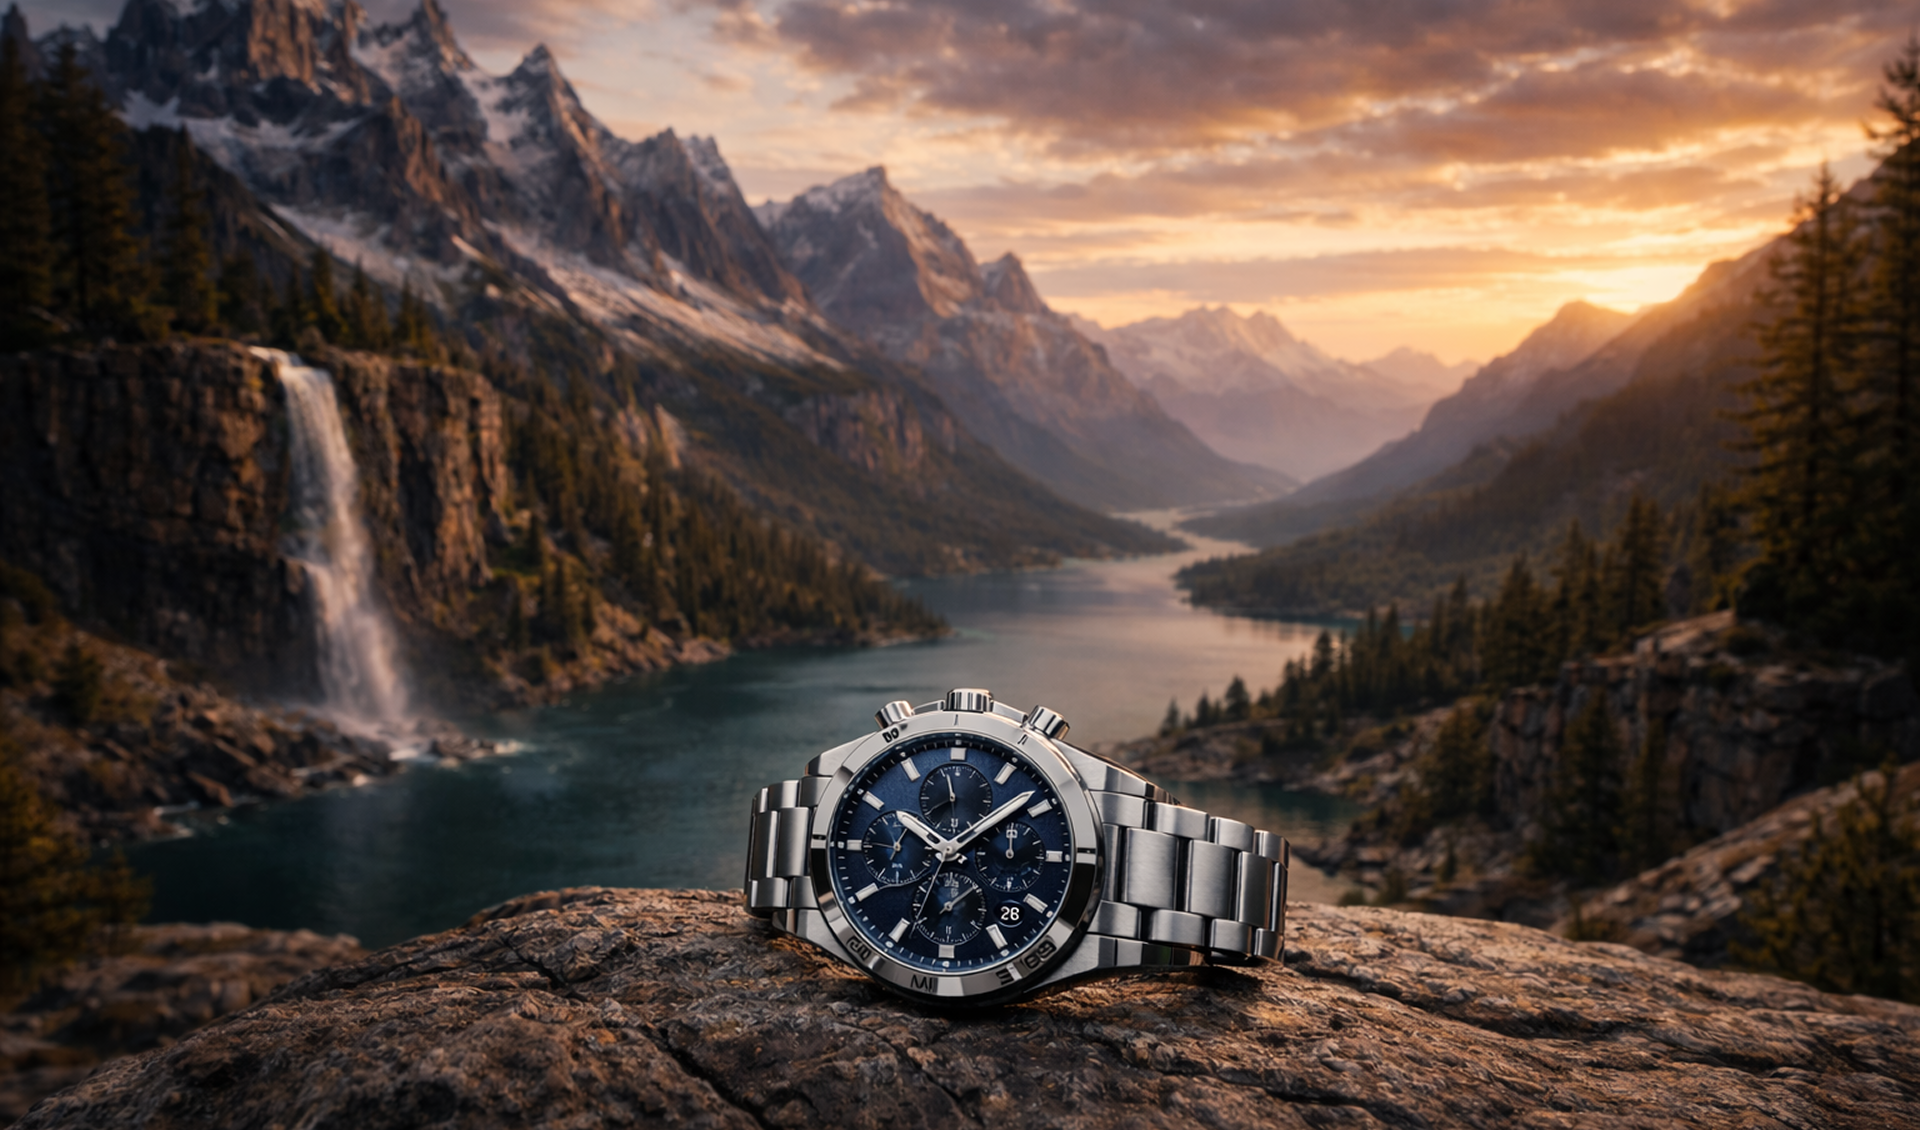
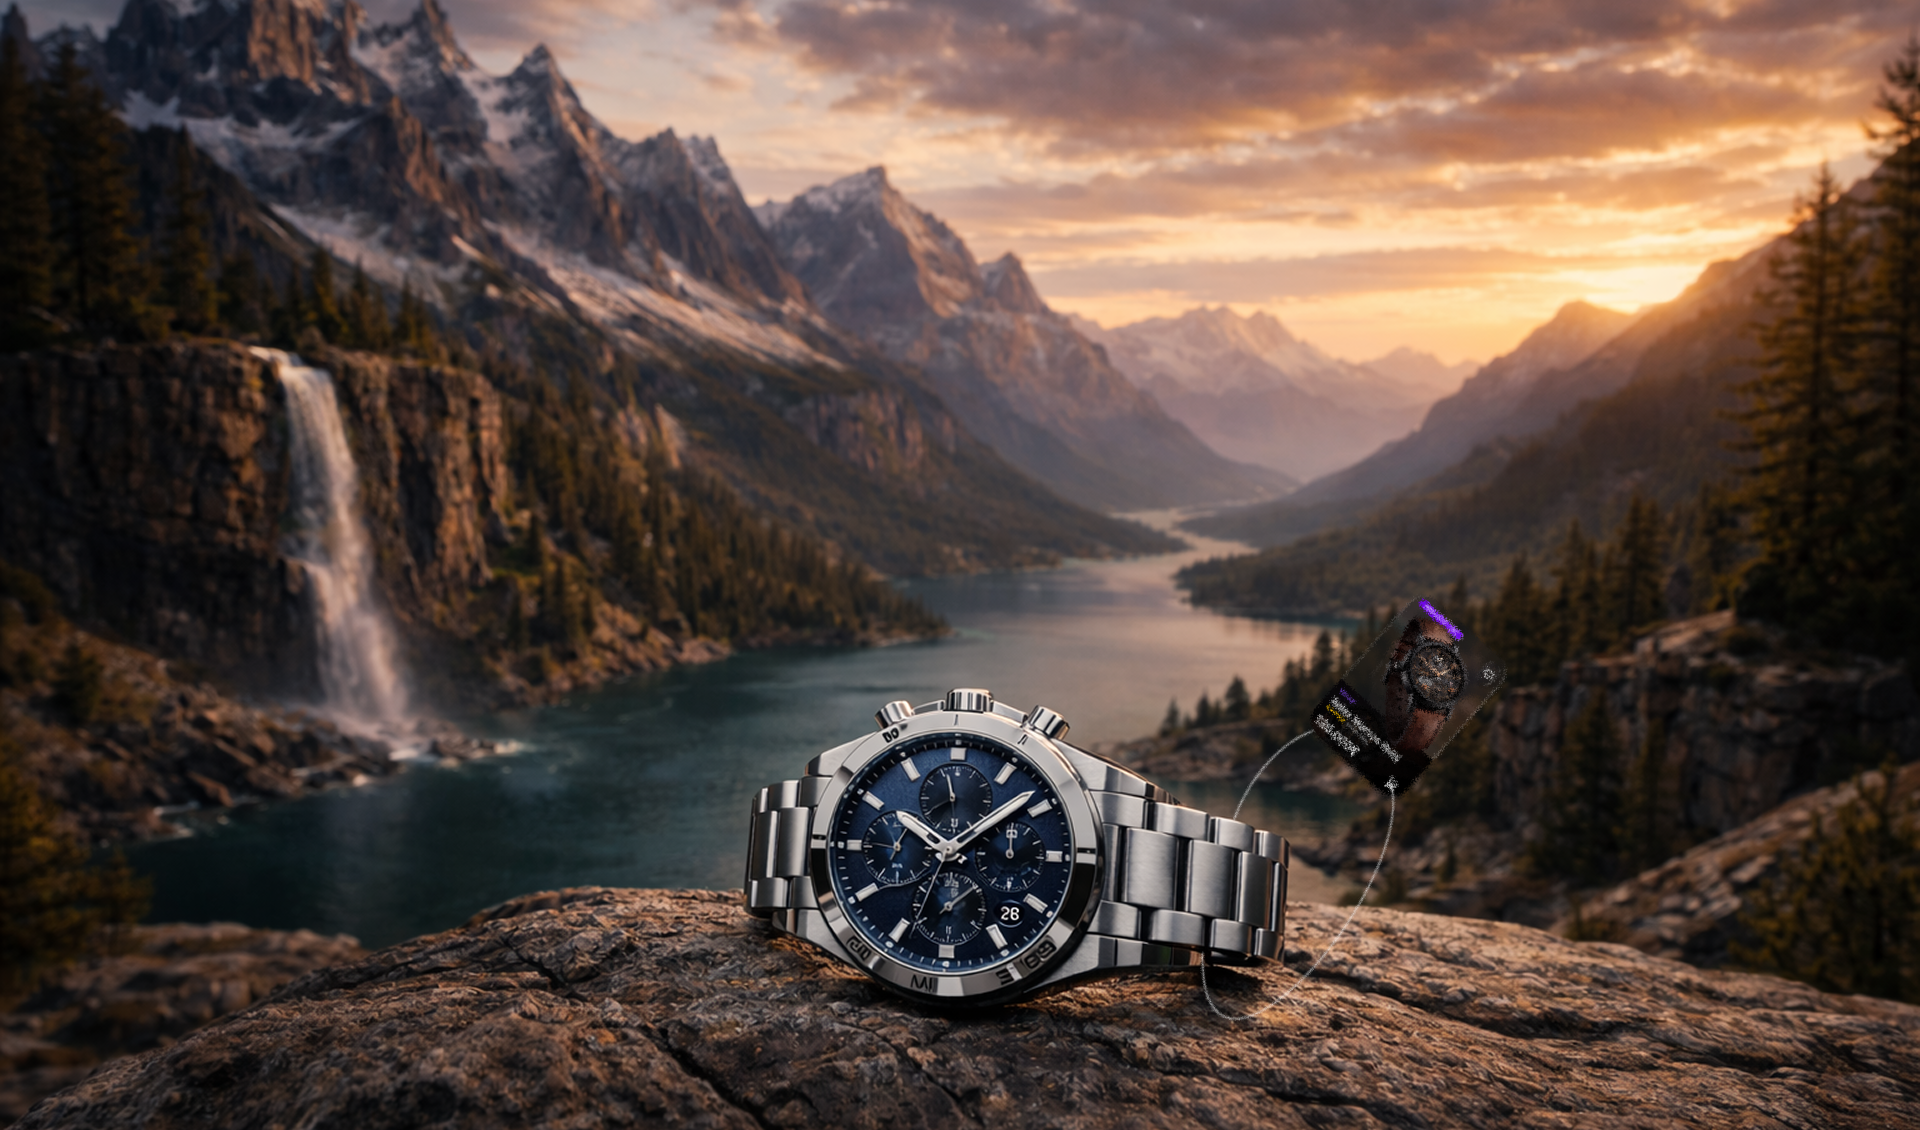
Modificaciones pagina principal

Changed region(s): [[0.6875, 0.5265, 0.7812, 0.7124]]

diff --git a/Proyecto Pagina Web/css/index_style.css b/Proyecto Pagina Web/css/index_style.css
@@ -15,11 +15,15 @@ header {
     z-index: 2;
     display: grid;
     grid-template-columns: 20% 60% 20%;
+    position: fixed;
 }
 
 #seccionPrincipal { 
     width: 100%;
     height: 100vh;
+    position: sticky; /* Hace que la seccion se pegue a la pantalla mientras se hace scroll hasta que acaba el div que la contiene (contenedorSticky). */
+    top: 0;
+    z-index: 1;
 }
 
 #seccionPrincipal .imagenFondo { 
@@ -29,7 +33,14 @@ header {
     height: 100%;
     object-fit: cover; /* Esto ahce que la imagen cubra todo el contenedor, como background-size: cover */
     object-position: center; /* Hace que la imagen se centre en el contenedor */
-} 
+}
+
+#contenedorSticky {
+    height: 160vh;
+    position: relative;
+    z-index: -1;
+    background-color: black;
+}
 
 .carta {
     position: absolute;
@@ -112,4 +123,60 @@ header {
     font-family: 'Clash Display', sans-serif;
     font-weight: 500;
     font-size: 24px;
+}
+
+#bentoGrid {
+    width: 100%;
+    height: 100vh;
+    background: linear-gradient(180deg,rgba(255, 255, 255, 0) 0%, rgba(0, 0, 0, 0.5) 5%, rgba(0, 0, 0, 0.5) 95%, rgba(255, 255, 255, 0) 100%);
+    padding-left: 60px;
+    padding-right: 60px;
+    padding-top: 70px;
+    margin-top: -60vh;
+    z-index: 10;
+}
+
+.contenedorBento {
+    background-color: transparent;
+    width: 100%;
+    height: 100vh;
+    display: grid;
+    grid-template-columns: 1fr 1fr 1fr 1fr;
+    grid-template-rows: 1fr 1fr;
+    grid-template-areas: 
+    "cartaBento1 cartaBento2 cartaBento2 cartaBento3"
+    "cartaBento1 cartaBento5 cartaBento6 cartaBento6";
+    grid-gap: 10px;
+    z-index: 10;
+}
+
+.cartaBento {
+    border-radius: 30px;
+    background-color: wheat;
+    height: 100%;
+    width: 100%;
+}
+
+.cartaBento1 {
+    grid-area: cartaBento1;
+}
+
+.cartaBento2 {
+    grid-area: cartaBento2;
+}
+
+.cartaBento3 {
+    grid-area: cartaBento3;
+}
+
+.cartaBento4 {
+    grid-area: cartaBento4;
+}
+
+.cartaBento5 {
+    grid-area: cartaBento5;
+}
+
+.cartaBento6 {
+    grid-area: cartaBento6;
 }

diff --git a/Proyecto Pagina Web/js/index_script.js b/Proyecto Pagina Web/js/index_script.js
@@ -47,3 +47,29 @@ if (imagen.complete && imagen.naturalWidth) {
 
 // Podicionar la carta al cambiar el tamaño de la ventana.
 window.addEventListener("resize", modificarPosicion);
+
+
+/* Desvanecimiento Scroll */
+const contenedorSticky = document.getElementById("contenedorSticky");
+
+function desvanecerAlScrollear() {
+
+  const posicion = contenedorSticky.getBoundingClientRect(); // Obetenemos la posicion del contenedorSticky respecto a la ventana.
+
+  let scrollHecho = -posicion.top; // Guarda la posicion del contenedor respecto a la parte de arriba de la ventana, dado que la posicion sera negativa dado que al hacer scroll va hacia abajo la vonvertimos en positiva con el -.
+  console.log(scrollHecho);
+
+  if (scrollHecho < 200) { // Limite minimo para el desvanecimiento.
+      scrollHecho = 0;
+  }
+
+  if (scrollHecho > 700) { // Limite maximo para el desvanecimiento.
+      scrollHecho = 700;
+  }
+
+  imagen.style.opacity = 1 - (scrollHecho / 900); // Le restamos opacidad a la imagen en funcion del scroll, con un limite de 900 para que no se vuelva completamente transparente.
+  carta.style.opacity = 1 - (scrollHecho / 700); // Le restamos opacidad a la carta en funcion del scroll, con un limite de 700 para que no se vuelva completamente transparente.
+
+}
+
+window.addEventListener("scroll", desvanecerAlScrollear);

diff --git a/Proyecto Pagina Web/index.html b/Proyecto Pagina Web/index.html
@@ -29,10 +29,23 @@
         <div id="menuBotones"></div>
     </header>
     <main>
-        <section id="seccionPrincipal"> 
-            <img class="imagenFondo" src="multimedia/ImagenFondoSeccionInicio1V4.png" alt="Imagen de fondo de la página de inicio">
-            <div class="carta"></div> 
+        <div id="contenedorSticky">
+            <section id="seccionPrincipal"> 
+                <img class="imagenFondo" src="multimedia/ImagenFondoSeccionInicio1V8.png" alt="Imagen de fondo de la página de inicio">
+                <div class="carta"></div>
+            </section>
+        </div>
+        <section id="bentoGrid">
+            <div class="contenedorBento">
+                <div class="cartaBento cartaBento1"></div>
+                <div class="cartaBento cartaBento2"></div>
+                <div class="cartaBento cartaBento3"></div>
+                <div class="cartaBento cartaBento4"></div>
+                <div class="cartaBento cartaBento5"></div>
+                <div class="cartaBento cartaBento6"></div>
+            </div>
         </section>
     </main>
+
 </body>
 </html>
